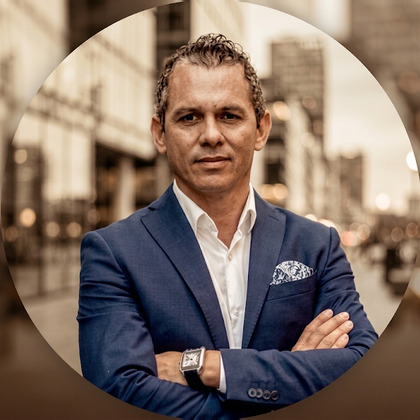
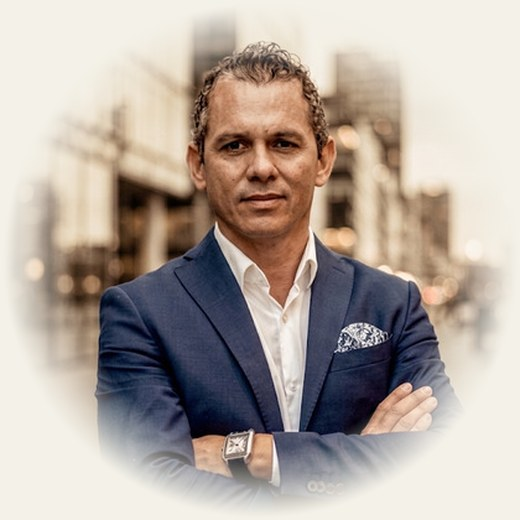
bs-0.5.0: larger name and role titles, dark brown copy, feathered headshot, shorter summary

diff --git a/index.html b/index.html
@@ -4,13 +4,13 @@
 <meta charset="utf-8">
 <meta name="viewport" content="width=device-width,initial-scale=1">
 <title>Julio Gómez — Country Manager &amp; Statutory Representative, Spain — Regulated Business Operations</title>
-<meta name="description" content="Country head and statutory representative with fifteen years launching and running regulated lending operations across Finland, Spain, Poland and the United Kingdom, most of them in Spain. Set up a Nordic-owned lender&#39;s Spanish operation from incorporation to first disbursement in 90 days as sole signatory and the person responsible for anti-money-laundering, on a mandate to build a EUR 20M loan book. Now advising founders and boards of regulated companies on market entry and compliance in Iberia under AML6 &amp; KYC, PSD2 SCA, eIDAS, GDPR and SEPBLAC.">
+<meta name="description" content="Over fifteen years launching regulated business operations across Europe, with statutory representation at company level and anti-money-laundering responsibility before SEPBLAC. — Now advising founders and boards on market entry and compliance in Iberia under AML6 &amp; KYC, PSD2 SCA, eIDAS and GDPR.">
 <link rel="canonical" href="https://mrjuliogomez.com/">
   <link rel="alternate" hreflang="en" href="https://mrjuliogomez.com/">
   <link rel="alternate" hreflang="x-default" href="https://mrjuliogomez.com/">
 <meta property="og:type" content="profile">
 <meta property="og:title" content="Julio Gómez — Country Manager &amp; Statutory Representative, Spain — Regulated Business Operations">
-<meta property="og:description" content="Country head and statutory representative with fifteen years launching and running regulated lending operations across Finland, Spain, Poland and the United Kingdom, most of them in Spain. Set up a Nordic-owned lender&#39;s Spanish operation from incorporation to first disbursement in 90 days as sole signatory and the person responsible for anti-money-laundering, on a mandate to build a EUR 20M loan book. Now advising founders and boards of regulated companies on market entry and compliance in Iberia under AML6 &amp; KYC, PSD2 SCA, eIDAS, GDPR and SEPBLAC.">
+<meta property="og:description" content="Over fifteen years launching regulated business operations across Europe, with statutory representation at company level and anti-money-laundering responsibility before SEPBLAC. — Now advising founders and boards on market entry and compliance in Iberia under AML6 &amp; KYC, PSD2 SCA, eIDAS and GDPR.">
 <meta property="og:url" content="https://mrjuliogomez.com/">
 <meta property="og:locale" content="en_GB">
 <meta property="og:image" content="https://mrjuliogomez.com/julio-gomez.jpg">
@@ -78,15 +78,15 @@
 </script>
 <style>
 :root{
-  --paper:#f4f1e8; --card:#faf8f2; --ink:#2b2825; --soft:#6f6a5f; --muted:#938b7c;
+  --paper:#f4f1e8; --card:#faf8f2; --ink:#36291c; --soft:#4a3a2a; --muted:#8a7a64;
   --hair:#ddd6c6; --rule:#c9c1ae; --side:30%;
-  --hdr:3.3rem;   /* shared heading box height — this is what makes the two rules coincide */
+  --hdr:3.7rem;   /* shared heading box height — this is what makes the two rules coincide */
   --sans:-apple-system,BlinkMacSystemFont,"Segoe UI",system-ui,"Helvetica Neue",Arial,sans-serif;
 }
 *{box-sizing:border-box}
 html{-webkit-text-size-adjust:100%;scroll-padding-top:var(--hdr)}
 body{margin:0;background:var(--paper);color:var(--ink);font-family:var(--sans);
-  font-size:13px;line-height:1.55;-webkit-font-smoothing:antialiased}
+  font-size:13.5px;line-height:1.55;-webkit-font-smoothing:antialiased}
 a{color:inherit;text-decoration:none;border-bottom:1px solid var(--rule)}
 a:hover{border-bottom-color:var(--ink)}
 a:focus-visible{outline:2px solid var(--ink);outline-offset:3px}
@@ -102,10 +102,10 @@ header{display:flex;align-items:flex-start;gap:3rem;padding:2.6rem 0 2rem}
 .who{flex:1 1 auto;min-width:0}
 .tick{display:inline-block;width:1.7rem;height:1px;background:var(--rule);
   vertical-align:middle;margin-right:.7rem}
-h1{font-size:44px;font-weight:300;letter-spacing:-.022em;margin:.5rem 0 .35rem;line-height:1.05}
-.subtitle{font-size:13px;color:var(--soft);margin:0 0 1.1rem}
-.lede{font-size:13.5px;line-height:1.7;margin:0;max-width:34em}
-.shot{flex:0 0 auto;width:164px;height:164px;object-fit:cover;display:block;
+h1{font-size:54px;font-weight:300;letter-spacing:-.022em;margin:.5rem 0 .35rem;line-height:1.05}
+.subtitle{font-size:14px;color:var(--soft);margin:0 0 1.1rem}
+.lede{font-size:14px;line-height:1.7;margin:0;max-width:34em}
+.shot{flex:0 0 auto;width:214px;height:214px;object-fit:cover;display:block;
   border-radius:50%}
 
 .strip{display:grid;grid-template-columns:repeat(4,1fr);border:1px solid var(--hair);
@@ -130,36 +130,36 @@ aside h2,main h2{position:sticky;top:0;z-index:2;background:var(--paper);
   border-bottom:1px solid var(--hair)}
 
 aside section{margin:0 0 2.4rem}
-aside h2{font-size:9.5px;letter-spacing:.18em;text-transform:uppercase;color:var(--muted);
+aside h2{font-size:11.5px;letter-spacing:.16em;text-transform:uppercase;color:var(--muted);
   font-weight:500}
 .pills{list-style:none;margin:0;padding:0;display:flex;flex-wrap:wrap;gap:.4rem}
-.pills li{border:1px solid var(--hair);border-radius:100px;padding:.3rem .7rem;
-  font-size:11px;color:var(--soft);background:var(--card)}
+.pills li{border:1px solid var(--hair);border-radius:100px;padding:.34rem .78rem;
+  font-size:12px;color:var(--soft);background:var(--card)}
 .rows{list-style:none;margin:0;padding:0}
-.rows li{display:flex;justify-content:space-between;gap:1rem;padding:.3rem 0;font-size:12px}
+.rows li{display:flex;justify-content:space-between;gap:1rem;padding:.32rem 0;font-size:13px}
 .rows .lvl{color:var(--muted);font-size:11px;white-space:nowrap}
 
 /* the closing band, three labelled groups derived from the pool's Type column */
 .band{margin:0 0 1.4rem}
-.band h3{font-size:9px;letter-spacing:.16em;text-transform:uppercase;color:var(--muted);
+.band h3{font-size:10px;letter-spacing:.14em;text-transform:uppercase;color:var(--muted);
   font-weight:500;margin:0 0 .45rem}
 .plain{list-style:none;margin:0;padding:0}
-.plain li{font-size:12px;color:var(--soft);padding:.16rem 0}
+.plain li{font-size:12.5px;color:var(--soft);padding:.16rem 0}
 
-main h2{font-size:20px;font-weight:400;letter-spacing:-.012em;color:var(--ink)}
+main h2{font-size:23px;font-weight:400;letter-spacing:-.012em;color:var(--ink)}
 main section + section{margin-top:2.6rem}
 main h2 .meta{font-size:9.5px;letter-spacing:.16em;text-transform:uppercase;color:var(--muted);
   font-weight:500}
 
 .role{margin:0 0 1.9rem}
 .rhead{display:flex;align-items:baseline;justify-content:space-between;gap:1.2rem}
-h3{font-size:14px;font-weight:600;margin:0;letter-spacing:-.006em}
+h3{font-size:16.5px;font-weight:600;margin:0;letter-spacing:-.006em}
 h3 .reg{font-weight:400;color:var(--soft)}
 .rhead .when{flex:0 0 auto;white-space:nowrap;font-size:11px;color:var(--muted);
   letter-spacing:.04em}
-.note{margin:.25rem 0 .7rem;font-size:11.5px;color:var(--muted)}
+.note{margin:.25rem 0 .75rem;font-size:12px;color:var(--muted)}
 .blist{list-style:none;margin:0;padding:0}
-.blist li{margin:0 0 .42rem;font-size:12.5px;color:var(--soft);line-height:1.6}
+.blist li{margin:0 0 .46rem;font-size:13px;color:var(--soft);line-height:1.6}
 .blist strong{color:var(--ink);font-weight:600}
 .gap{margin:0 0 1.9rem;padding:.6rem .9rem;background:var(--card);
   border:1px solid var(--hair);display:flex;justify-content:space-between;gap:1rem;
@@ -182,8 +182,8 @@ h3 .reg{font-weight:400;color:var(--soft)}
   article{padding:0 1.2rem}
   header{flex-direction:column-reverse;align-items:flex-start;gap:1.4rem;padding:2rem 0 1.6rem}
   .who{width:100%}
-  h1{font-size:34px}
-  .shot{width:108px;height:108px}
+  h1{font-size:38px}
+  .shot{width:140px;height:140px}
   .strip{grid-template-columns:1fr 1fr;margin-bottom:2.2rem}
   .strip div:nth-child(3){border-left:0}
   .strip div:nth-child(n+3){border-top:1px solid var(--hair)}
@@ -193,7 +193,7 @@ h3 .reg{font-weight:400;color:var(--soft)}
   aside h2,main h2{position:static;height:auto;display:block;padding-bottom:.7rem}
   aside h2 .meta,main h2 .meta{display:block;margin-top:.2rem}
   .rhead,.edu-item .top{flex-direction:column;gap:.1rem}
-  main h2{font-size:18px}
+  main h2{font-size:20px}
 }
 @media (max-width:30rem){ .strip{grid-template-columns:1fr} .strip div{border-left:0;border-top:1px solid var(--hair)} .strip div:first-child{border-top:0} }
 @media print{ body{background:#fff} a{border-bottom:0} aside h2,main h2{position:static;height:auto} }
@@ -210,9 +210,9 @@ h3 .reg{font-weight:400;color:var(--soft)}
       <p class="eyebrow"><span class="tick"></span>Executive Profile</p>
       <h1>Julio Gómez</h1>
       <p class="subtitle">Country Manager &amp; Statutory Representative, Spain — Regulated Business Operations</p>
-      <p class="lede">Country head and statutory representative with fifteen years launching and running regulated lending operations across Finland, Spain, Poland and the United Kingdom, most of them in Spain. Set up a Nordic-owned lender&#39;s Spanish operation from incorporation to first disbursement in 90 days as sole signatory and the person responsible for anti-money-laundering, on a mandate to build a EUR 20M loan book. Now advising founders and boards of regulated companies on market entry and compliance in Iberia under AML6 &amp; KYC, PSD2 SCA, eIDAS, GDPR and SEPBLAC.</p>
+      <p class="lede">Over fifteen years launching regulated business operations across Europe, with statutory representation at company level and anti-money-laundering responsibility before SEPBLAC. — Now advising founders and boards on market entry and compliance in Iberia under AML6 &amp; KYC, PSD2 SCA, eIDAS and GDPR.</p>
     </div>
-    <img class="shot" src="julio-gomez.jpg" width="164" height="164" alt="Julio Gómez">
+    <img class="shot" src="julio-gomez.jpg" width="214" height="214" alt="Julio Gómez">
   </header>
 
   <div class="strip">
